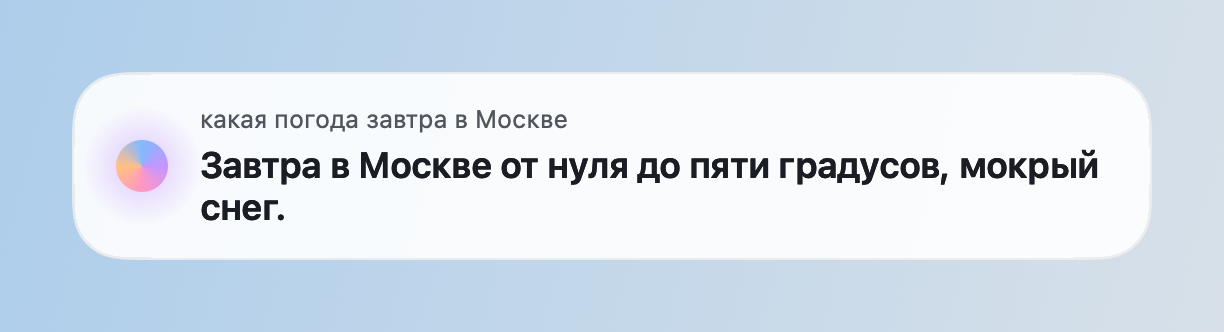
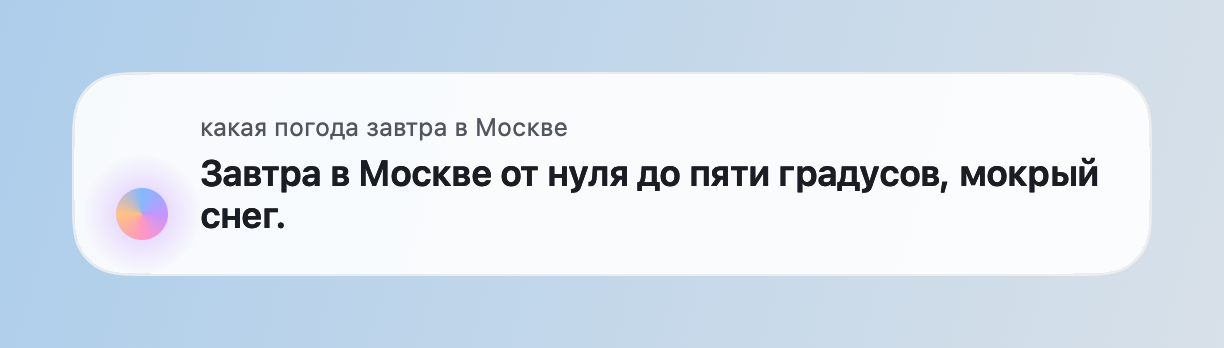
plate: fix the indicator jumping while dictating - caption lines reserved from the start, indicator pinned to the bottom text line, timer drawn in the bottom padding; Mac layout check mode; TV overlay and screenshots updated

diff --git a/mac-app/Sources/BobMac/PlateView.swift b/mac-app/Sources/BobMac/PlateView.swift
@@ -23,6 +23,8 @@ final class PlateView: NSView {
 
     override var isFlipped: Bool { true }
 
+    var indicatorFrame: NSRect { indicator.frame }
+
     override init(frame: NSRect) {
         super.init(frame: frame)
         wantsLayer = true
@@ -67,12 +69,12 @@ final class PlateView: NSView {
     private var showsTimer: Bool { state.phase == "followup" && state.window > 0 }
 
     private var smallText: String {
-        if listening { return state.request.isEmpty ? "" : "Слушаю" }
+        if listening { return "Слушаю" }
         return state.request
     }
 
     private var bigText: String {
-        if listening { return state.request.isEmpty ? "Слушаю…" : state.request }
+        if listening { return state.request.isEmpty ? "Говорите…" : state.request }
         if thinking { return "Думаю…" }
         return state.answer
     }
@@ -112,7 +114,7 @@ final class PlateView: NSView {
         let big = height(of: bigText, font: Look.bigFont, width: textWidth, lines: Look.bigMaxLines)
         let block = small + (small > 0 && big > 0 ? Look.lineGap : 0) + big
         let row = max(block, Look.indicator)
-        let total = Look.padV * 2 + row + (showsTimer ? Look.timerSpace : 0)
+        let total = Look.padV * 2 + row
         return Measure(small: small, big: big, block: block, total: total)
     }
 
@@ -121,7 +123,9 @@ final class PlateView: NSView {
         let layout = measure(boxWidth: bounds.width)
         let row = max(layout.block, Look.indicator)
         let top = Look.padV
-        indicator.frame = NSRect(x: Look.padH, y: top + (row - Look.indicator) / 2, width: Look.indicator, height: Look.indicator)
+        let lastLine = ceil(Look.bigFont.ascender - Look.bigFont.descender + Look.bigFont.leading)
+        let center = top + row - lastLine / 2
+        indicator.frame = NSRect(x: Look.padH, y: center - Look.indicator / 2, width: Look.indicator, height: Look.indicator)
         let textX = Look.padH + Look.indicator + Look.gap
         let textWidth = bounds.width - textX - Look.padH
         var y = top + (row - layout.block) / 2
@@ -132,7 +136,7 @@ final class PlateView: NSView {
         }
         bigLabel.frame = NSRect(x: textX, y: y, width: textWidth, height: layout.big)
         let trackWidth = bounds.width - Look.padH * 2
-        let trackY = bounds.height - Look.padV / 2 - Look.timerHeight - 2
+        let trackY = bounds.height - Look.timerInset - Look.timerHeight
         timerTrack.frame = CGRect(x: Look.padH, y: trackY, width: trackWidth, height: Look.timerHeight)
         timerFill.bounds = CGRect(x: 0, y: 0, width: trackWidth, height: Look.timerHeight)
         timerFill.position = CGPoint(x: Look.padH, y: trackY + Look.timerHeight / 2)

diff --git a/mac-app/Sources/BobMac/main.swift b/mac-app/Sources/BobMac/main.swift
@@ -91,6 +91,26 @@ final class AppDelegate: NSObject, NSApplicationDelegate {
 }
 
 let arguments = CommandLine.arguments
+if arguments.count >= 2, arguments[1] == "--layout" {
+    _ = NSApplication.shared
+    let states: [(String, PlateState)] = [
+        ("пусто", PlateState(phase: "listening", request: "", answer: "", voice: true)),
+        ("слово", PlateState(phase: "listening", request: "какая", answer: "", voice: true)),
+        ("фраза", PlateState(phase: "listening", request: "какая погода завтра в Москве", answer: "", voice: true)),
+        ("длинно", PlateState(phase: "listening", request: "какая погода завтра в Москве и в Санкт-Петербурге и ещё в Белгороде и Курске", answer: "", voice: true)),
+        ("думаю", PlateState(phase: "thinking", request: "какая погода завтра в Москве", answer: "", voice: true)),
+        ("ответ", PlateState(phase: "answer", request: "какая погода завтра в Москве", answer: "Завтра в Москве от нуля до пяти градусов, мокрый снег.", voice: true))
+    ]
+    for (name, state) in states {
+        let view = PlateView(frame: .zero)
+        view.apply(state)
+        let size = view.preferredSize()
+        view.setFrameSize(size)
+        view.layout()
+        print("\(name.padding(toLength: 8, withPad: " ", startingAt: 0)) высота \(Int(size.height))  индикатор y=\(Int(view.indicatorFrame.minY)) центр=\(Int(view.indicatorFrame.midY))")
+    }
+    exit(0)
+}
 if arguments.count >= 3, arguments[1] == "--snapshots" {
     let directory = URL(fileURLWithPath: arguments[2])
     try? FileManager.default.createDirectory(at: directory, withIntermediateDirectories: true)

diff --git a/mac-app/Sources/BobMac/Look.swift b/mac-app/Sources/BobMac/Look.swift
@@ -40,14 +40,14 @@ enum Look {
 
     static let corner: CGFloat = 26
     static let padH: CGFloat = 22
-    static let padV: CGFloat = 16
+    static let padV: CGFloat = 20
     static let indicator: CGFloat = 26
     static let gap: CGFloat = 14
     static let maxWidth: CGFloat = 540
     static let minWidth: CGFloat = 240
     static let lineGap: CGFloat = 5
     static let timerHeight: CGFloat = 3
-    static let timerSpace: CGFloat = 12
+    static let timerInset: CGFloat = 9
     static let slack: CGFloat = 8
     static let smallFont = NSFont.systemFont(ofSize: 12.5)
     static let bigFont = NSFont.systemFont(ofSize: 18, weight: .semibold)

diff --git a/tv-app/app/src/main/java/com/bobassistant/tv/Overlay.java b/tv-app/app/src/main/java/com/bobassistant/tv/Overlay.java
@@ -30,7 +30,7 @@ final class Overlay {
     private final WindowManager windows;
     private final Handler main = new Handler(Looper.getMainLooper());
     private FrameLayout root;
-    private LinearLayout pill;
+    private FrameLayout pill;
     private IndicatorView indicator;
     private TextView small;
     private TextView big;
@@ -72,18 +72,17 @@ final class Overlay {
     }
 
     private void build() {
-        pill = new LinearLayout(context);
-        pill.setOrientation(LinearLayout.VERTICAL);
-        pill.setPadding((int) dp(26), (int) dp(18), (int) dp(26), (int) dp(18));
+        pill = new FrameLayout(context);
         pill.setElevation(dp(18));
 
         LinearLayout row = new LinearLayout(context);
         row.setOrientation(LinearLayout.HORIZONTAL);
-        row.setGravity(Gravity.CENTER_VERTICAL);
+        row.setGravity(Gravity.BOTTOM);
+        row.setPadding((int) dp(26), (int) dp(18), (int) dp(26), (int) dp(20));
         indicator = new IndicatorView(context);
         int size = (int) dp(54);
         LinearLayout.LayoutParams indicatorParams = new LinearLayout.LayoutParams(size, size);
-        indicatorParams.setMargins((int) dp(-10), (int) dp(-10), (int) dp(2), (int) dp(-10));
+        indicatorParams.setMargins((int) dp(-10), (int) dp(-10), (int) dp(2), (int) dp(-11));
         row.addView(indicator, indicatorParams);
 
         LinearLayout column = new LinearLayout(context);
@@ -108,8 +107,8 @@ final class Overlay {
         timerFill.setBackground(fillShape);
         timer.addView(timerTrack, new FrameLayout.LayoutParams(FrameLayout.LayoutParams.MATCH_PARENT, FrameLayout.LayoutParams.MATCH_PARENT));
         timer.addView(timerFill, new FrameLayout.LayoutParams(FrameLayout.LayoutParams.MATCH_PARENT, FrameLayout.LayoutParams.MATCH_PARENT));
-        LinearLayout.LayoutParams timerParams = new LinearLayout.LayoutParams(LinearLayout.LayoutParams.MATCH_PARENT, (int) dp(4));
-        timerParams.topMargin = (int) dp(14);
+        FrameLayout.LayoutParams timerParams = new FrameLayout.LayoutParams(FrameLayout.LayoutParams.MATCH_PARENT, (int) dp(3), Gravity.BOTTOM);
+        timerParams.setMargins((int) dp(26), 0, (int) dp(26), (int) dp(8));
         timer.setVisibility(View.GONE);
         pill.addView(timer, timerParams);
 
@@ -195,13 +194,13 @@ final class Overlay {
         String previousPhase = phase;
         phase = next;
 
-        String smallText = listening ? (request.isEmpty() ? "" : context.getString(R.string.caption_listening)) : request;
+        String smallText = listening ? context.getString(R.string.caption_listening) : request;
         small.setText(smallText);
         small.setVisibility(smallText.isEmpty() ? View.GONE : View.VISIBLE);
 
         if (listening) {
             if (request.isEmpty()) {
-                setBig(context.getString(R.string.state_listening), "", primary);
+                setBig(context.getString(R.string.state_speak), "", primary);
                 big.setTextColor(secondary);
             } else {
                 setBig(request, shownRequest, primary);

diff --git a/docs/plate.md b/docs/plate.md
@@ -40,6 +40,13 @@
 - **Голос настраивается для каждого устройства отдельно.** Команды: «Боб, отвечай только текстом»
   (также «выключи голос», «без голоса») и «Боб, отвечай голосом» («включи голос», «говори голосом»).
 
+## Компоновка без прыжков
+
+Карточка растёт вверх от нижнего края, а значок привязан к нижней строке текста, поэтому он не двигается, когда
+добавляются слова или строки. Подпись «Слушаю» и подсказка «Говорите…» занимают место с самого начала, а полоска
+окна уточнения рисуется в нижнем поле и высоту не меняет. Проверка: `BobMac --layout` печатает высоту и положение значка
+для каждой фазы (расстояние от значка до нижнего края должно быть одинаковым).
+
 ## Протокол (WebSocket, JSON)
 
 Сервер → устройство:
